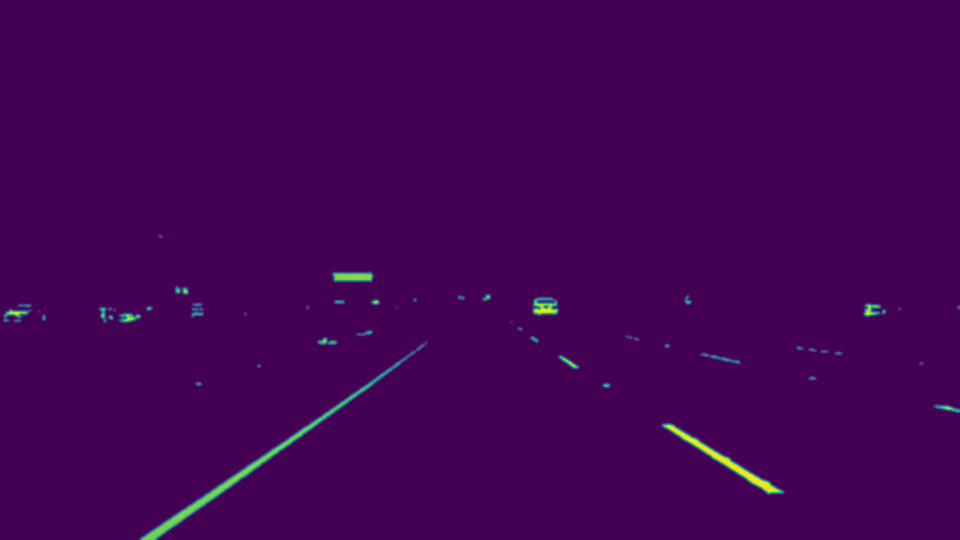
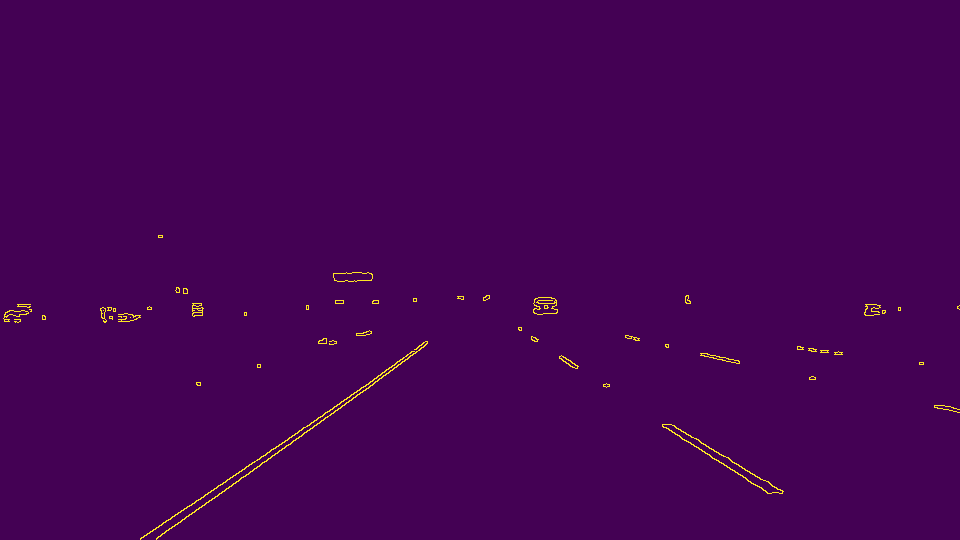
update images

diff --git a/find_lanes.py b/find_lanes.py
@@ -147,13 +147,13 @@ def process_image(image, file_name=''):
     mpimg.imsave('test_images_output/filtered_' + file_name, filtered_color_image)
 
   gray = grayscale(filtered_color_image)
-  if len(file_name) > 0:
-    mpimg.imsave('test_images_output/gray_' + file_name, gray)
-
   blur_gray = gaussian_blur(gray, 5)
+  if len(file_name) > 0:
+    mpimg.imsave('test_images_output/gray_' + file_name, blur_gray)
+
   edges = canny(blur_gray, 50 , 150)
   if len(file_name) > 0:
-    mpimg.imsave('test_images_output/edges_' + file_name, blur_gray)
+    mpimg.imsave('test_images_output/edges_' + file_name, edges)
 
   imshape = image.shape
   vertices = np.array(
